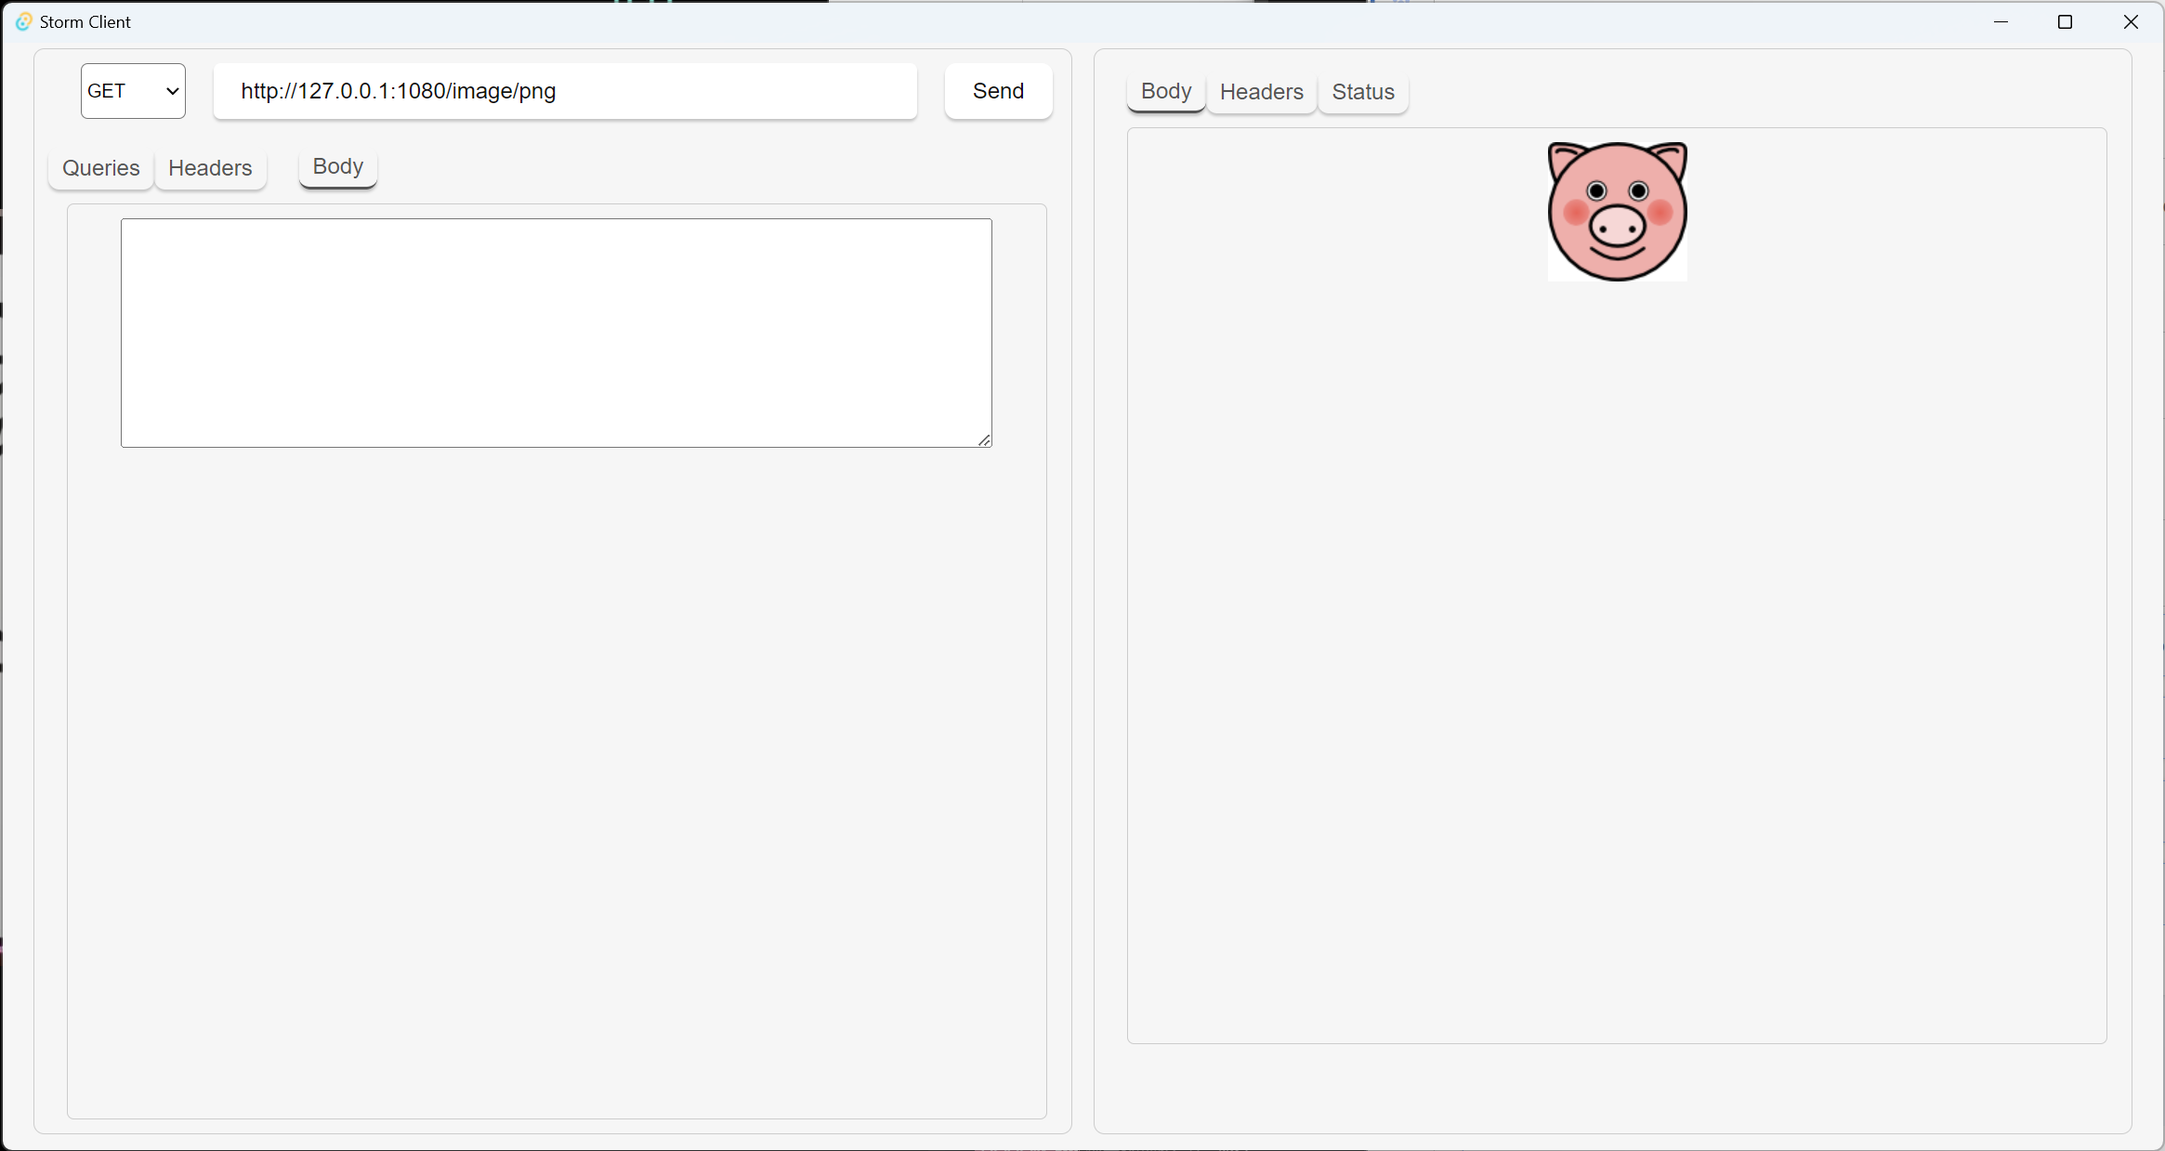
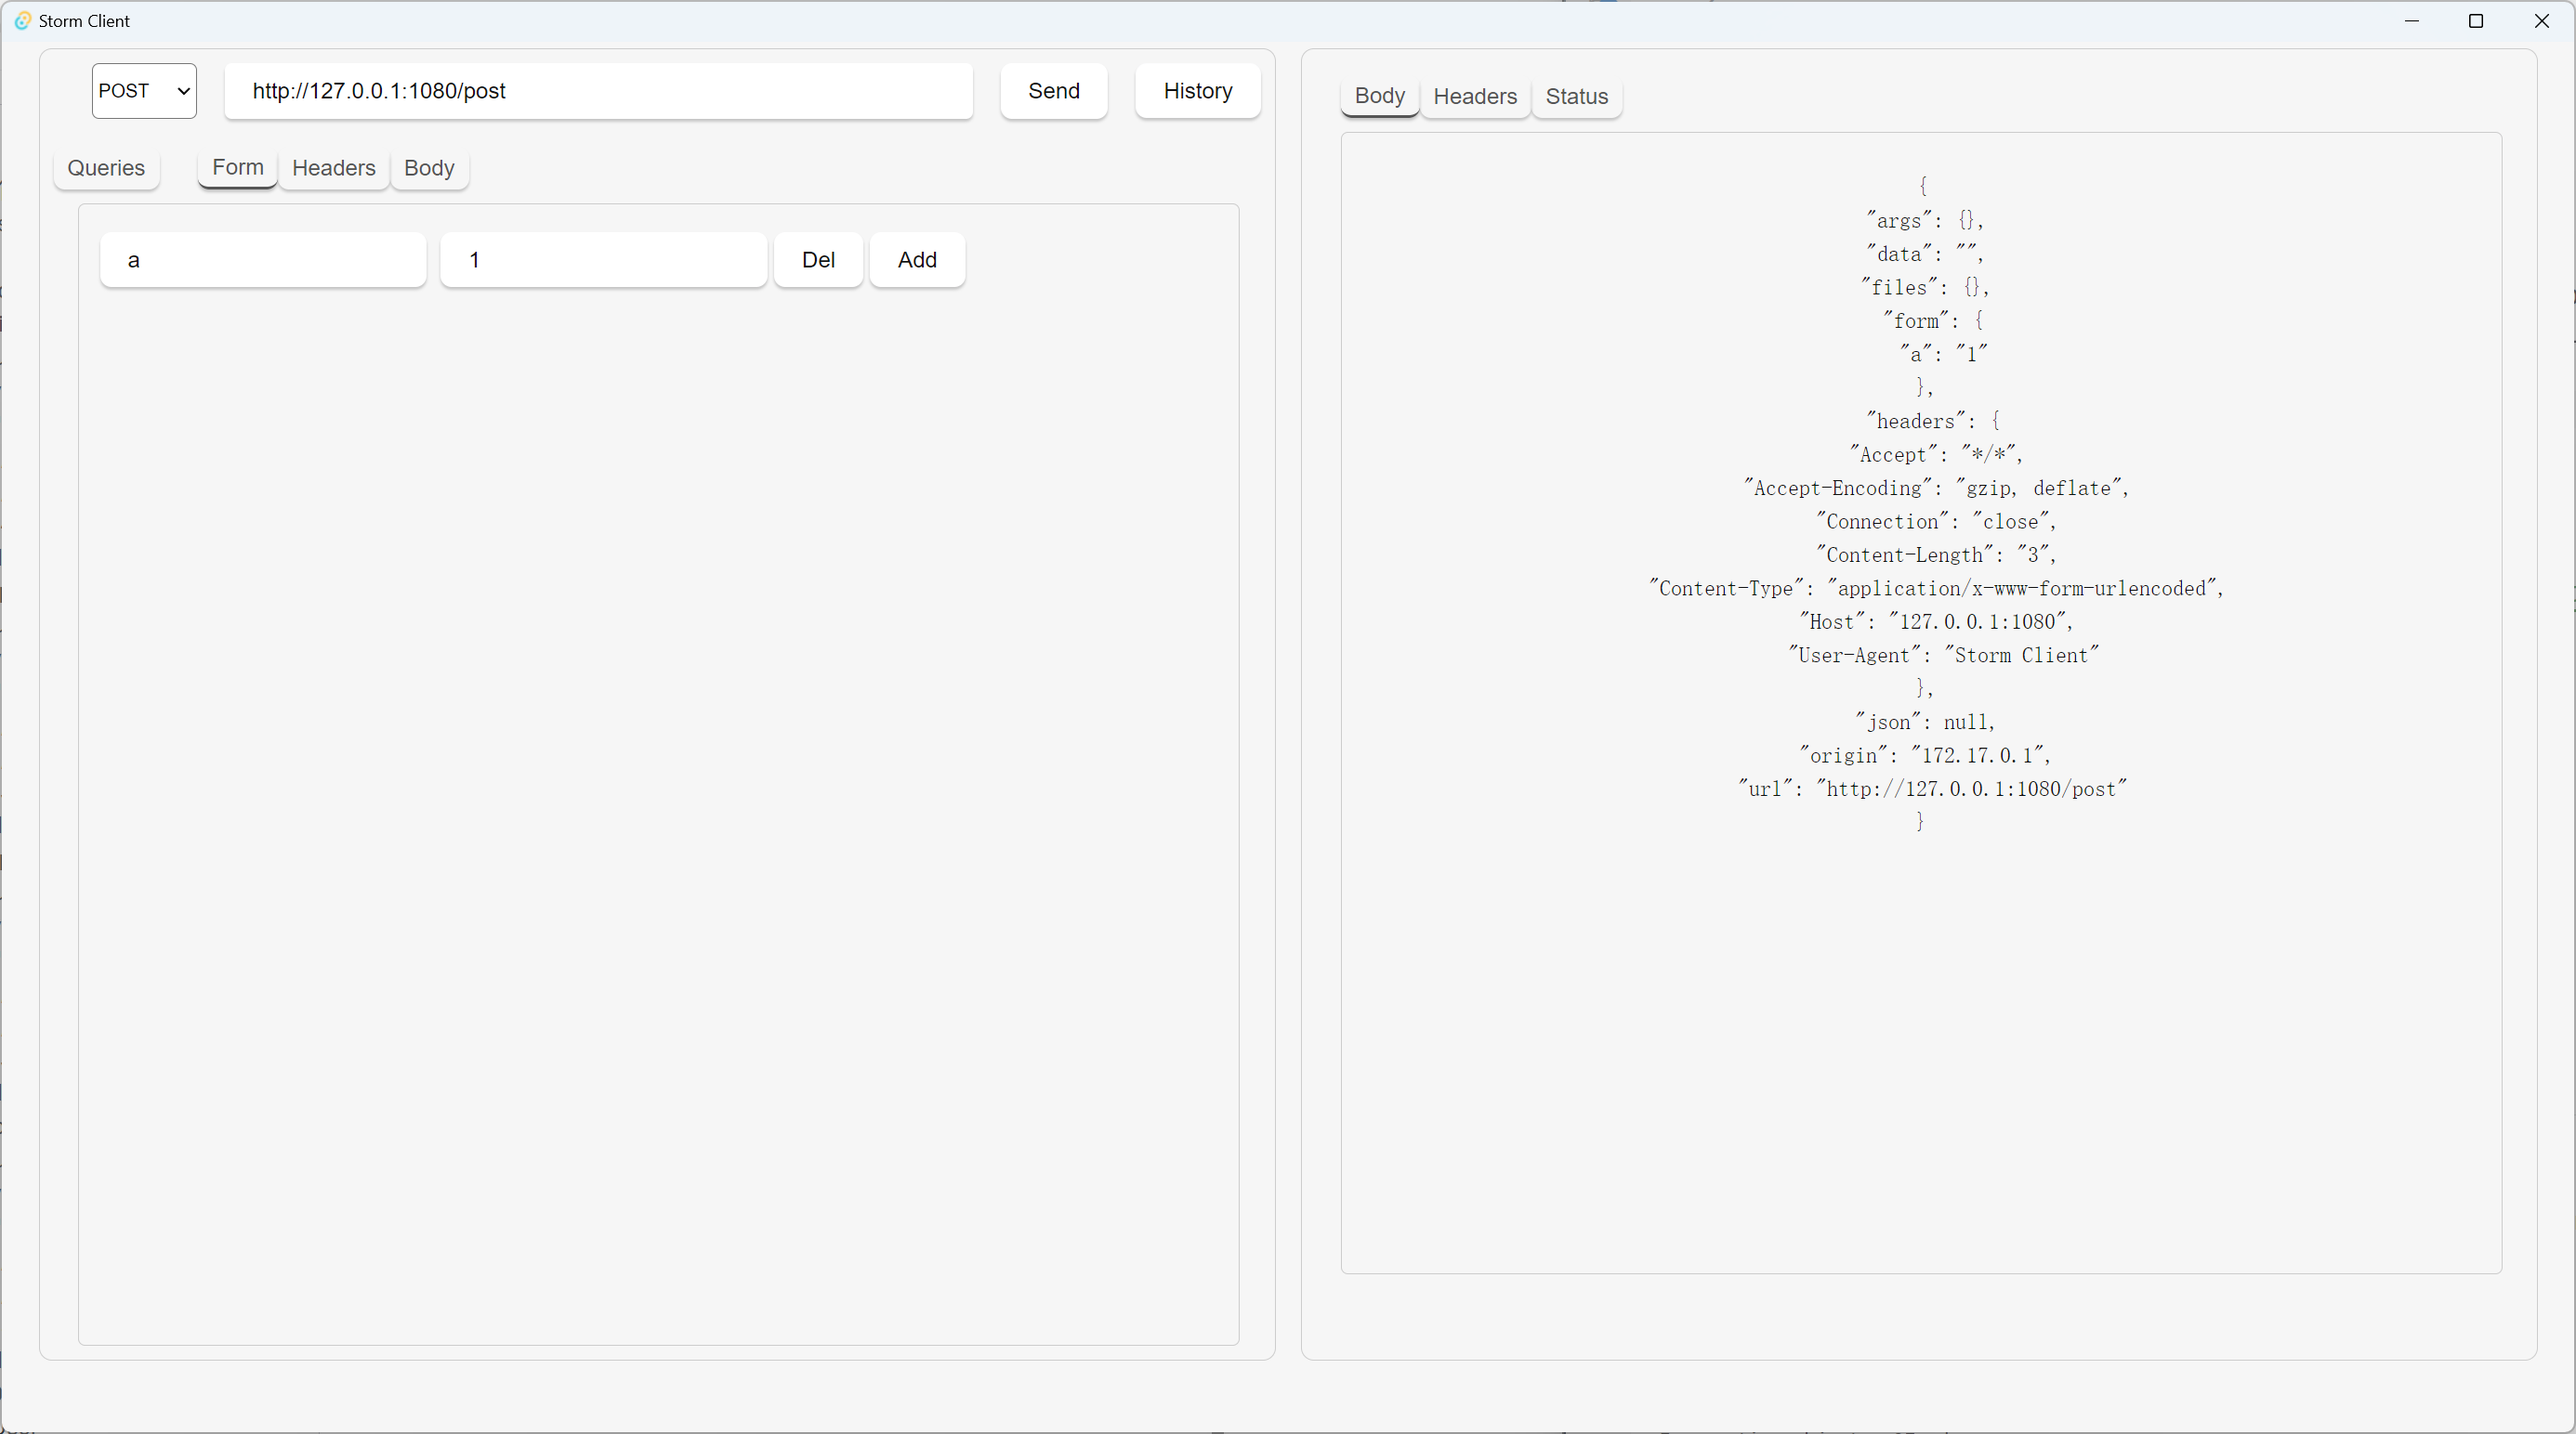
feat(app): support saving and loading request history

diff --git a/src/vm.tsx b/src/vm.tsx
@@ -1,6 +1,16 @@
 import { Body, ResponseType, fetch } from "@tauri-apps/api/http";
 import { Setter, createMemo, createSignal } from "solid-js";
-import { FormItem, Header, Method, Query, Response } from "./types";
+import {
+  FormItem,
+  Header,
+  Method,
+  Query,
+  RequestRecord,
+  Response,
+} from "./types";
+import * as storage from "./storage";
+
+storage.init();
 
 export const [url, setUrl] = createSignal<string>("https://httpbin.org/get");
 export const [method, setMethod] = createSignal(Method.GET);
@@ -23,6 +33,11 @@ export const [response, setResponse] = createSignal<Response>(defaultResponse);
 export const [loading, setLoading] = createSignal(false);
 export const [error, setError] = createSignal("");
 export const [isForm, setIsForm] = createSignal(false);
+export const [history, setHistory] = createSignal<RequestRecord[]>([]);
+export const [selectedRecord, setSelectedRecord] =
+  createSignal<RequestRecord>();
+
+storage.loadHistory().then(setHistory);
 
 const queryString = createMemo(() => {
   const params = new URLSearchParams();
@@ -66,7 +81,18 @@ export async function doRequest() {
   setLoading(true);
   setError("");
   setResponse(defaultResponse);
-  console.log(realUrl(), method(), requestHeaders(), body());
+  console.log(realUrl(), method(), requestHeaders(), requestForm(), body());
+  const record = {
+    method: method(),
+    url: url(),
+    headers: headers(),
+    queries: queries(),
+    formItems: formItems(),
+    body: body(),
+    ts: Date.now(),
+  };
+  await storage.appendRequestRecord(record);
+  setHistory((history) => [record, ...history.slice(0, 19)]);
   try {
     const response = await fetch<number[]>(realUrl(), {
       method: method(),
@@ -91,3 +117,14 @@ export function setByValue<T>(setter: Setter<T>) {
     setter(() => value as T);
   };
 }
+
+createMemo(() => {
+  if (!selectedRecord()) return;
+  const { method, url, headers, queries, formItems, body } = selectedRecord()!;
+  setMethod(method);
+  setUrl(url);
+  setHeaders(() => headers || []);
+  setQueries(() => queries || []);
+  setFormItems(() => formItems || []);
+  setBody(body || "");
+});

diff --git a/src/storage.ts b/src/storage.ts
@@ -1,0 +1,59 @@
+import {
+  createDir,
+  exists,
+  writeTextFile,
+  readTextFile,
+  BaseDirectory,
+} from "@tauri-apps/api/fs";
+import { RequestRecord } from "./types";
+
+export async function init() {
+  const appDirExists = await exists(".storm", {
+    dir: BaseDirectory.Home,
+  });
+  if (!appDirExists) {
+    console.log("Creating $HOME/.storm/ directory");
+    await createDir(".storm", {
+      dir: BaseDirectory.Home,
+      recursive: true,
+    });
+  }
+  const historyDirExists = await exists(".storm/history", {
+    dir: BaseDirectory.Home,
+  });
+  if (!historyDirExists) {
+    console.log("Creating $HOME/.storm/history/ directory");
+    await createDir(".storm/history", {
+      dir: BaseDirectory.Home,
+      recursive: true,
+    });
+  }
+}
+
+export async function loadHistory() {
+  const historyExists = await exists(".storm/history/history.json", {
+    dir: BaseDirectory.Home,
+  });
+  if (!historyExists) {
+    console.log("Creating $HOME/.storm/history/history.json");
+    writeTextFile(".storm/history/history.json", "[]", {
+      dir: BaseDirectory.Home,
+    });
+  }
+  return JSON.parse(
+    await readTextFile(".storm/history/history.json", {
+      dir: BaseDirectory.Home,
+    })
+  ) as RequestRecord[];
+}
+
+export async function saveHistory(history: RequestRecord[]) {
+  await writeTextFile(".storm/history/history.json", JSON.stringify(history), {
+    dir: BaseDirectory.Home,
+  });
+}
+
+export async function appendRequestRecord(record: RequestRecord) {
+  const history = await loadHistory();
+  await saveHistory([record, ...history.slice(0, 19)]);
+}

diff --git a/src/components/history/History.tsx b/src/components/history/History.tsx
@@ -1,0 +1,41 @@
+import { createSignal, Show, For } from "solid-js";
+import { history, setSelectedRecord } from "../../vm";
+import "./History.css";
+
+const [isOpen, setIsOpen] = createSignal(false);
+const [btnElement, setBtnElement] = createSignal<HTMLElement | null>(null);
+
+export function History() {
+  return (
+    <div>
+      <button onClick={() => setIsOpen(!isOpen())} ref={setBtnElement}>
+        History
+      </button>
+      <Show when={isOpen()}>
+        <div class="history-items" ref={ShowHistory}>
+          <For each={history()}>
+            {(record) => (
+              <div
+                class="history-item"
+                onClick={() => {
+                  setSelectedRecord(record);
+                  setIsOpen(false);
+                }}
+              >
+                {record.url}
+              </div>
+            )}
+          </For>
+        </div>
+      </Show>
+    </div>
+  );
+}
+
+function ShowHistory(el: HTMLElement) {
+  const rect = btnElement()!.getBoundingClientRect();
+  el.style.position = "absolute";
+  el.style.top = `${rect.bottom}px`;
+  el.style.left = `${rect.left}px`;
+  el.style.display = "block";
+}

diff --git a/src/components/history/History.css b/src/components/history/History.css
@@ -1,0 +1,26 @@
+.history-items {
+  position: absolute;
+  top: 25px;
+  left: 0;
+  z-index: 999;
+  border: 1px solid #ccc;
+  background-color: #fff;
+  max-height: 30vh;
+  overflow-y: auto;
+  overflow-x: auto;
+  padding: 5px;
+  width: 30vh;
+  font-size: 14px;
+  box-shadow: 0 4px 6px rgba(0, 0, 0, 0.1), 0 1px 3px rgba(0, 0, 0, 0.08);
+}
+
+.history-item {
+  cursor: pointer;
+  padding: 5px;
+  border-bottom: 1px solid #ccc;
+  transition: background-color 0.2s ease;
+}
+
+.history-item:hover {
+  background-color: #f5f5f5;
+}

diff --git a/src/components/request/UrlEditor.tsx b/src/components/request/UrlEditor.tsx
@@ -8,6 +8,7 @@ import {
   url,
 } from "../../vm";
 import { Method } from "../../types";
+import { History } from "../history/History";
 
 export function UrlEditor() {
   return (
@@ -21,6 +22,7 @@ export function UrlEditor() {
       <button onClick={doRequest} disabled={loading()}>
         {loading() ? "Loading..." : "Send"}
       </button>
+      <History />
     </div>
   );
 }

diff --git a/src/types.tsx b/src/types.tsx
@@ -24,3 +24,13 @@ export interface Response {
   headers: Record<string, string>;
   body: ArrayBuffer;
 }
+
+export interface RequestRecord {
+  method: Method;
+  url: string;
+  headers?: Header[];
+  queries?: Query[];
+  formItems?: FormItem[];
+  body?: string;
+  ts: number;
+}

diff --git a/README.md b/README.md
@@ -2,6 +2,14 @@
 
 A Light Weight Rest API Client Built With Tauri And Solid.js
 
+## Features
+
+- [x] Support GET, POST, PUT, DELETE
+- [x] Support setting query parameters, headers, formdata and body
+- [x] Support displaying response headers and body
+- [x] Support rendering response body as text, image, audio, video, and download binary file.
+- [x] Support save and load request history
+
 ## screenshot
 
 ![screenshot](https://github.com/duyixian1234/Storm/raw/master/screenshots/screenshot.png)
